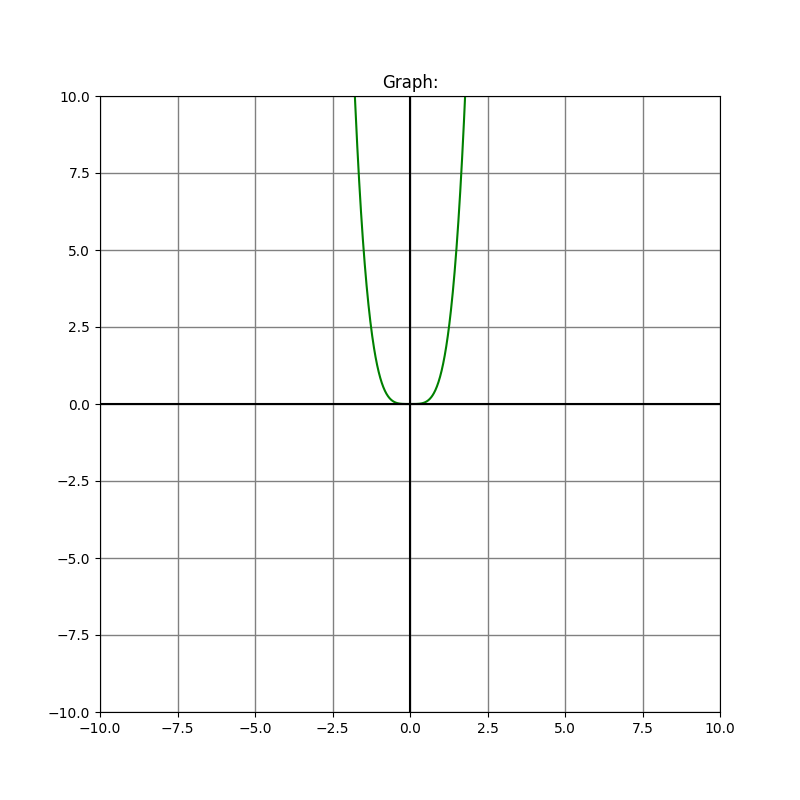
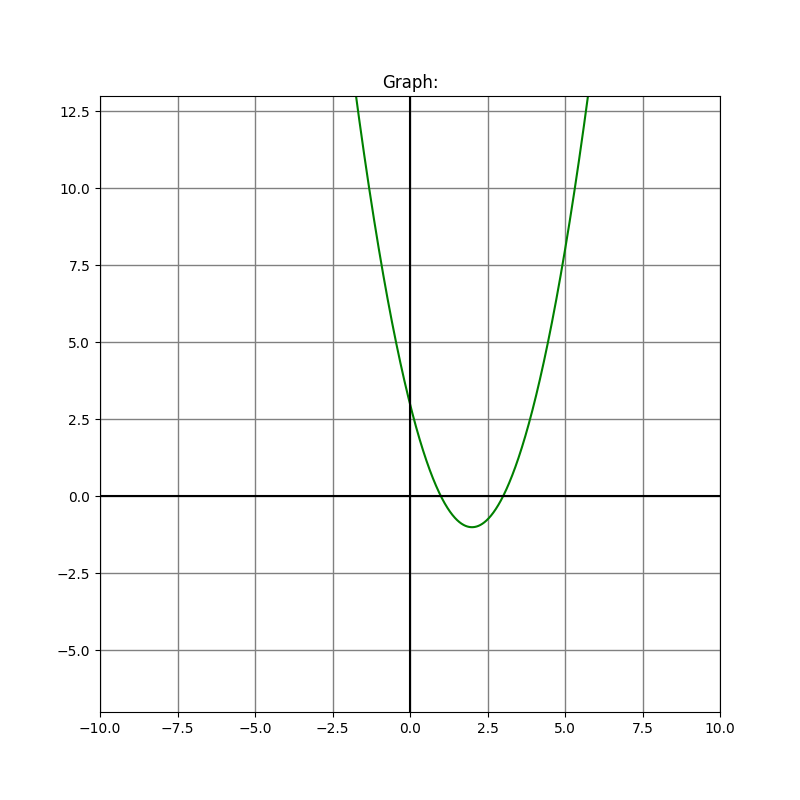
uploading database experience

diff --git a/venv/project_yandex/functional_code.py b/venv/project_yandex/functional_code.py
@@ -9,11 +9,13 @@ from PyQt5.QtGui import *
 from PyQt5.QtCore import *
 from PyQt5.Qt import pyqtSignal
 import sqlite3
+from math import sin, cos, tan
+
 
 class Function_draw(QMainWindow):
     def __init__(self):
         super().__init__()
-        uic.loadUi('project.ui', self)  # делал конкретный путь, можно заменить
+        uic.loadUi('project.ui', self)
         self.drawButton.clicked.connect(self.painting)
         self.backButton.clicked.connect(self.exit)
         self.mainMenu = None
@@ -22,12 +24,13 @@ class Function_draw(QMainWindow):
         plt.ioff()
         fig, ax = plt.subplots(figsize=(8, 8))
         ax.set_title('Graph:', fontsize=12)
-        plt.axis([-10, 10, -10, 10])
-        x = np.arange(-10, 10, 0.01)
-        if self.lineEdit.text() == '':
+        if self.lineEdit.text() == '' and self.NoneRadioButton.isChecked():
             self.error_Label.setText('Write a func')
-        else:
-            y = eval(self.lineEdit.text())  # планирую сделать безопасный eval, с проверкой на содержимое lineEdit'а
+        elif self.SinRadioButton.isChecked():
+            plt.axis([-10, 10, -10, 10])
+            x = np.arange(-10, 4 * np.pi, 0.1)  # start,stop,step
+            y = np.sin(x)
+            # не работает для sin, cos и тригонометрических функций
             ax.grid(color='grey',  # цвет линий # Сетка графика
                     linewidth=1,  # толщина # Сетка графика
                     linestyle='-')  # начертание # Сетка графика
@@ -41,12 +44,82 @@ class Function_draw(QMainWindow):
             new_image = image.resize((491, 491))
             new_image.save('a1b1c1.png')
             self.graphic_label.setPixmap(QPixmap('a1b1c1.png'))
+        elif self.TanRadioButton.isChecked():
+            plt.axis([-10, 10, -10, 10])
+            x = np.arange(-10, 4 * np.pi, 0.1)  # start,stop,step
+            y = np.tan(x)
+            # не работает для sin, cos и тригонометрических функций
+            ax.grid(color='grey',  # цвет линий # Сетка графика
+                    linewidth=1,  # толщина # Сетка графика
+                    linestyle='-')  # начертание # Сетка графика
+            plt.plot(x, y, "g-")  # Построение графика
+            # X - axis
+            ax.axhline(y=0, color='k')
+            # Y - axis
+            ax.axvline(x=0, color='k')
+            plt.savefig('abc.png')
+            image = Image.open('abc.png')
+            new_image = image.resize((491, 491))
+            new_image.save('a1b1c1.png')
+            self.graphic_label.setPixmap(QPixmap('a1b1c1.png'))
+        elif self.CosRadioButton.isChecked():
+            plt.axis([-10, 10, -10, 10])
+            x = np.arange(-10, 4 * np.pi, 0.1)  # start,stop,step
+            y = np.cos(x)
+            # не работает для sin, cos и тригонометрических функций
+            ax.grid(color='grey',  # цвет линий # Сетка графика
+                    linewidth=1,  # толщина # Сетка графика
+                    linestyle='-')  # начертание # Сетка графика
+            plt.plot(x, y, "g-")  # Построение графика
+            # X - axis
+            ax.axhline(y=0, color='k')
+            # Y - axis
+            ax.axvline(x=0, color='k')
+            plt.savefig('abc.png')
+            image = Image.open('abc.png')
+            new_image = image.resize((491, 491))
+            new_image.save('a1b1c1.png')
+            self.graphic_label.setPixmap(QPixmap('a1b1c1.png'))
+        else:
+            x = np.arange(-10, 10, 0.01)
+            y = eval(self.lineEdit.text())  # планирую сделать безопасный eval, с проверкой на содержимое lineEdit'а
+            plt.axis([-10, 10, y[len(y) // 2] - 10, y[len(y) // 2] + 10])
+            # не работает для sin, cos и тригонометрических функций
+            ax.grid(color='grey',  # цвет линий # Сетка графика
+                    linewidth=1,  # толщина # Сетка графика
+                    linestyle='-')  # начертание # Сетка графика
+            plt.plot(x, y, "g-")  # Построение графика
+            # X - axis
+            ax.axhline(y=0, color='k')
+            # Y - axis
+            ax.axvline(x=0, color='k')
+            plt.savefig('abc.png')
+            image = Image.open('abc.png')
+            new_image = image.resize((491, 491))
+            new_image.save('a1b1c1.png')
+            self.graphic_label.setPixmap(QPixmap('a1b1c1.png'))
+
     def exit(self):
         self.close()
         self.mainMenu.show()
+
     def addMainMenu(self, mainMenu):
         self.mainMenu = mainMenu
 
+
+class Diagram_draw(QMainWindow):
+    def __init__(self):
+        super().__init__()
+        uic.loadUi('diagram.ui', self)  # делал конкретный путь, можно заменить
+        self.backButton.clicked.connect(self.exit)
+        self.mainMenu = None
+
+    def exit(self):
+        self.close()
+        self.mainMenu.show()
+
+    def addMainMenu(self, mainMenu):
+        self.mainMenu = mainMenu
 
 
 class Autorization(QWidget):
@@ -58,11 +131,10 @@ class Autorization(QWidget):
         self.registerButton.clicked.connect(self.user_registration)
         self.loginButton.clicked.connect(self.user_login)
         self.count = 0
-        self.changebutton.clicked.connect(self.pass_change)
+        self.changebutton.clicked.connect(self.passchange)
         self.changeLabel.hide()
         self.lineEdit.hide()
         self.changebutton.hide()
-
 
     def user_login(self):
         db = sqlite3.connect('accounts.sqlite')
@@ -80,9 +152,9 @@ class Autorization(QWidget):
         sql.execute(f"""SELECT LOGIN FROM users WHERE login = '{user_login}'""")
         if sql.fetchone() is None:
             self.warningLabel.setText('User is not registered')
-            #sql.execute(f"""INSERT INTO users VALUES (?, ?)""", (user_login, user_password))
-            #db.commit()
-            #print('Your account is registered')
+            sql.execute(f"""INSERT INTO users VALUES (?, ?)""", (user_login, user_password))
+            db.commit()
+            print('Your account is registered')
         else:
             sql.execute(f"""SELECT PASSWORD FROM users WHERE password = '{user_password}' AND login = '{user_login}'""")
             if sql.fetchone() is None:
@@ -101,6 +173,7 @@ class Autorization(QWidget):
                 self.mainMenu.setEnabled(True)
                 self.count = 0
                 self.close()
+
     def user_registration(self):
         db = sqlite3.connect('accounts.sqlite')
         sql = db.cursor()  # work with database
@@ -133,15 +206,20 @@ class Autorization(QWidget):
             else:
                 self.warningLabel.setText('User is already registered')
 
-    #def pass_change(self):
-        #if len(self.lineEdit.text()) > 4:
-            #sql.execute(f"""UPDATE users SET password = '{self.lineEdit.text()}' WHERE login = '{self.nickEdit.text()}'""")
-            #db.commit()
-            #self.check = True
-            #self.mainMenu.setEnabled(True)
-            #self.close()
-        #else:
-            #self.warningLabel.setText('Wrong password')
+    def passchange(self):
+        db = sqlite3.connect('accounts.sqlite')
+        sql = db.cursor()  # work with database
+        user_login = self.nickEdit.text()
+        user_password = self.lineEdit.text()
+        print(user_password, user_login)
+        if len(user_password) > 4:
+            sql.execute(f"""UPDATE users SET password = '{user_password}' WHERE login = '{user_login}'""")
+            db.commit()
+            self.check = True
+            self.mainMenu.setEnabled(True)
+            self.close()
+        else:
+            self.labelSymb.setText('Less than 5 symbols')
 
     def checkAutorization(self):
         return self.check
@@ -156,9 +234,11 @@ class MainMenu(QMainWindow):
         uic.loadUi('mainMenu.ui', self)
 
         self.function_draw = None
+        self.diagram_draw = None
 
         self.startButton.clicked.connect(self.startFunc)
         self.exitButton.clicked.connect(self.exit)
+        self.pushButton.clicked.connect(self.startDiagram)
 
     def exit(self):
         sys.exit()
@@ -170,6 +250,14 @@ class MainMenu(QMainWindow):
 
     def addFunc(self, function_draw):
         self.function_draw = function_draw
+
+    def addDiagram(self, diagram_draw):
+        self.diagram_draw = diagram_draw
+
+    def startDiagram(self):
+        self.close()
+        self.diagram_draw.show()
+        self.diagram_draw.setEnabled(True)
 
 
 class FuncPunk(QObject):
@@ -185,10 +273,13 @@ class FuncPunk(QObject):
         self.mainMenu.setEnabled(False)
         self.fuction_draw.addMainMenu(self.mainMenu)
 
-
         self.autorization = Autorization()
         self.autorization.addMenu(self.mainMenu)
         self.autorization.show()
+
+        self.diagram_draw = Diagram_draw()
+        self.diagram_draw.addMainMenu(self.mainMenu)
+        self.mainMenu.addDiagram(self.diagram_draw)
 
 
 if __name__ == '__main__':

diff --git a/venv/project_yandex/data_base.py b/venv/project_yandex/data_base.py
@@ -1,29 +1,9 @@
 import sqlite3
 
+db = sqlite3.connect('accounts.sqlite')
+sql = db.cursor()  # work with database
 
-def user_registration():
-    db = sqlite3.connect('accounts.sqlite')
-    sql = db.cursor() # work with database
-
-    sql.execute("""CREATE TABLE IF NOT EXISTS users (
-        login TEXT, 
-        password TEXT 
-    )""")
-
-    db.commit()
-    user_login = self.nickEdit.text()
-    user_password = self.passEdit.text()
-    # reg
-    sql.execute(f"""SELECT LOGIN FROM users WHERE login = '{user_login}'""")
-    if sql.fetchone() is None:
-        sql.execute(f"""INSERT INTO users VALUES (?, ?)""", (user_login, user_password))
-        db.commit()
-        print('Your account is registered')
-        return True
-    else:
-        sql.execute(f"""SELECT LOGIN FROM users WHERE login = '{user_password}'""")
-        if sql.fetchone() is None:
-            print('Wrong password')
-            return False
-        else:
-            return True
+user_login = '1234'
+user_password = '051627'
+sql.execute(f"""UPDATE users SET password = '{user_password}' WHERE login = '{user_login}'""")
+db.commit()

diff --git a/venv/project_yandex/diagram trial.py b/venv/project_yandex/diagram trial.py
@@ -1,0 +1,16 @@
+import numpy as np
+import matplotlib.pyplot as plt
+
+x = np.arange(1, 10)
+y = np.random.randint(1, 20, size = 9)
+
+fig, ax = plt.subplots()
+
+ax.bar(x, y)
+
+ax.set_facecolor('seashell')
+fig.set_facecolor('floralwhite')
+fig.set_figwidth(12)    #  ширина Figure
+fig.set_figheight(6)    #  высота Figure
+
+plt.show()
